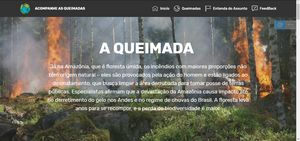
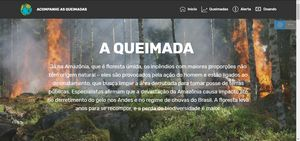
final version website

Changed region(s): [[0.0, 0.0, 0.93, 0.1418], [0.93, 0.1418, 0.96, 0.1702]]

diff --git a/index.html b/index.html
@@ -33,6 +33,7 @@
     <section class="menu cid-qTkzRZLJNu" once="menu" id="menu1-0">
 
 
+
         <nav
             class="navbar navbar-expand beta-menu navbar-dropdown align-items-center navbar-fixed-top navbar-toggleable-sm">
             <button class="navbar-toggler navbar-toggler-right" type="button" data-toggle="collapse"
@@ -48,27 +49,28 @@
             <div class="menu-logo">
                 <div class="navbar-brand">
                     <span class="navbar-logo">
-                        <a href="/">
-                            <img src="assets/images/logo1-138x127.png" alt="Planeta" title="Planeta Terra"
-                                style="height: 3.8rem;">
-                        </a>
+
+                        <img src="assets/images/logo1-138x127.png" alt="Planeta" title="Planeta Terra"
+                            style="height: 3.8rem;">
+
                     </span>
-                    <span class="navbar-caption-wrap"><a class="navbar-caption text-white display-4" href="/">ACOMPANHE
-                            AS QUEIMADAS&nbsp;</a></span>
+                    <span class="navbar-caption-wrap"><a class="navbar-caption text-white display-4"
+                            href="#">ACOMPANHE AS QUEIMADAS&nbsp;</a></span>
                 </div>
             </div>
             <div class="collapse navbar-collapse" id="navbarSupportedContent">
                 <ul class="navbar-nav nav-dropdown nav-right" data-app-modern-menu="true">
                     <li class="nav-item">
-                        <a class="nav-link link text-white display-7" href="/">
+                        <a class="nav-link link text-white display-7" href="https://mobirise.com">
                         </a>
                     </li>
-                    <li class="nav-item"><a class="nav-link link text-white display-7" href="/">
+                    <li class="nav-item"><a class="nav-link link text-white display-7" href="index.html#header2-1">
                             <span class="mbri-home mbr-iconfont mbr-iconfont-btn"></span>Inicío</a></li>
                     <li class="nav-item"><a class="nav-link link text-white display-7" href="index.html#video1-g"><span
                                 class="mbri-globe mbr-iconfont mbr-iconfont-btn"></span>
                             Queimadas</a></li>
-                    <li class="nav-item"><a class="nav-link link text-white display-7" href="/"><span
+                    <li class="nav-item"><a class="nav-link link text-white display-7"
+                            href="index.html#counters4-k"><span
                                 class="mbri-flag mbr-iconfont mbr-iconfont-btn"></span>Entenda do Assunto</a></li>
                     <li class="nav-item"><a class="nav-link link text-white display-7" href="index.html#form1-m"><span
                                 class="mbrib-cust-feedback mbr-iconfont mbr-iconfont-btn"></span>FeedBack</a></li>
@@ -416,7 +418,7 @@
             <div class="media-container-row content text-white">
                 <div class="col-12 col-md-3">
                     <div class="media-wrap">
-                        <a href="index.html">
+                        <a href="#">
                             <img src="assets/images/logo1-192x176.png" alt="Planeta" title="Planeta Terra">
                         </a>
                     </div>
@@ -427,17 +429,17 @@
                 </div>
                 <div class="col-12 col-md-3 mbr-fonts-style display-7">
                     <h5 class="pb-3">
-
+                        <br>
                         Contatos </h5>
                     <p class="mbr-text">
                         Email:LeoF0180@gmail.com<br>igorbolonhofla@hotmail.com<br>lucaslubanco@unigranrio.br<br>evertontrajano.ti@gmail.com
                     </p>
                 </div>
                 <div class="col-12 col-md-3 mbr-fonts-style display-7">
-                    <h5 class="pb-3">
+                    <h5 class="pb-3"><br>
                         Links
                     </h5>
-                    <p class="mbr-text">Fontes:&nbsp;<br><a href="http://queimadas.dgi.inpe.br/queimadas/portal"
+                    <p class="mbr-text">&nbsp;<br><a href="http://queimadas.dgi.inpe.br/queimadas/portal"
                             target="_blank">Site do INPE</a><br><a href="https://g1.globo.com" target="_blank">Site da
                             globo<br></a><br><br></p>
                 </div>
@@ -460,6 +462,8 @@
             </div>
         </div>
     </section>
+
+
 
     <!-- *** RODAPÉ DA PAGINA ***-->
 
